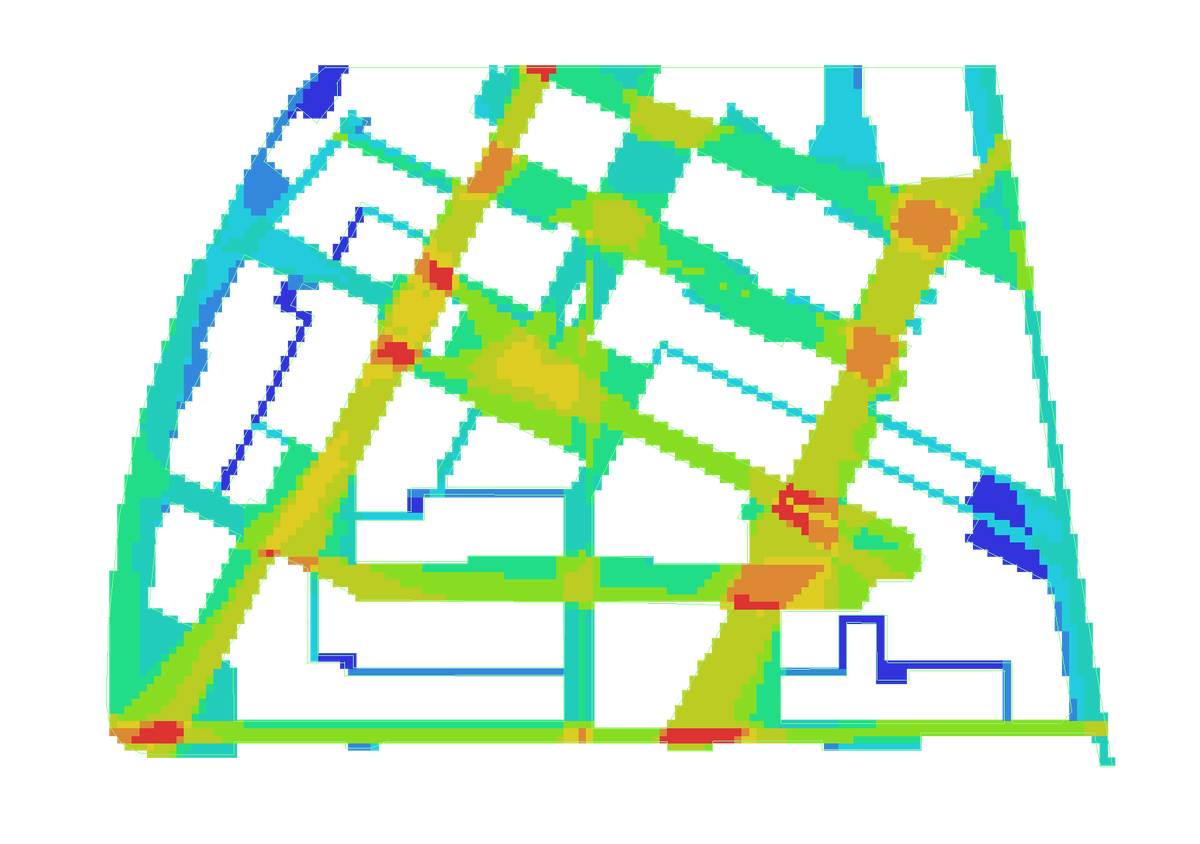
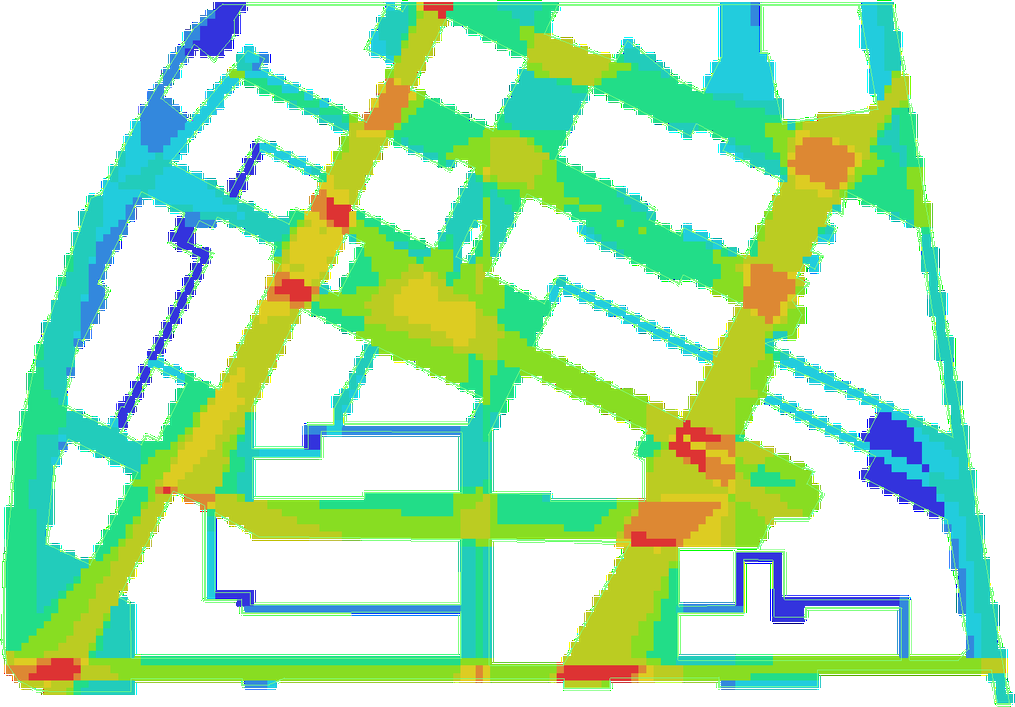
style(phase2): VGA 出图美化（抠黑底 / 裁边 / 暖色深底 / 视域图例）
FIG.13 两张 VGA 原图是纯黑底满幅彩虹，与暖灰站点冲突，兴业那张还大半是空黑。处理：近黑像素抠成透明并裁到内容（前滩 1015×707、兴业 626×946），CSS 统一 4:3、object-fit contain、放到暖色径向深底 panel 上，两张成匹配对照；新增视域渐变图例（受限→开阔）。开放街区铺满整层 vs 封闭中庭收成一条对角廊道的对比因此更清楚。

diff --git a/index.html b/index.html
@@ -227,6 +227,9 @@ table.rank .rk { color: var(--fg-soft); }
 .fig-card .fc-tag { font-family: var(--mono); font-size: .58rem; letter-spacing: .1em; color: var(--fg-soft); }
 .fig-card img { width: 100%; border-radius: 9px; display: block; background: #11100e; }
 .fig-card .fc-cap { font-size: .74rem; color: var(--fg-soft); line-height: 1.5; margin: .5rem .2rem 0; }
+.fig-card.vga img { aspect-ratio: 4 / 3; object-fit: contain; padding: 10px; background: radial-gradient(130% 130% at 50% 30%, #23200f, #121009); box-shadow: var(--inset-sm); }
+.vga-legend { display: flex; align-items: center; gap: .6rem; margin: .85rem .3rem 0; font-size: .7rem; color: var(--fg-soft); font-family: var(--mono); }
+.vga-legend i { height: 7px; width: 200px; border-radius: 4px; background: linear-gradient(to right,#1f3a93,#2f8fd0,#37b56b,#c8d23a,#e88a2a,#d23b2b); box-shadow: var(--inset-sm); }
 .statpair { display: grid; grid-template-columns: 1.25fr 1fr; gap: 1.2rem; align-items: stretch; }
 @media (max-width: 680px) { .statpair { grid-template-columns: 1fr; } }
 .statnote { border-radius: 14px; box-shadow: var(--raise-sm); padding: 1.1rem 1.2rem; display: flex; flex-direction: column; justify-content: center; }
@@ -591,10 +594,11 @@ table.rank .rk { color: var(--fg-soft); }
     <div class="stage">
       <div class="stage__bar"><span class="stage__label">FIG.13 · VGA 视域整合度 · 地面层 L1</span><span class="stage__live">LIVE</span></div>
       <div class="fig-pair">
-        <div class="fig-card"><div class="fc-top"><span class="fc-name qt">前滩太古里 · L1</span><span class="fc-tag">VGA</span></div><img loading="lazy" src="./data/phase2/vga/qt_l1.png" alt="前滩 VGA L1"></div>
-        <div class="fig-card"><div class="fc-top"><span class="fc-name hk">兴业太古汇 · L1</span><span class="fc-tag">VGA</span></div><img loading="lazy" src="./data/phase2/vga/hkri_l1.png" alt="兴业 VGA L1"></div>
+        <div class="fig-card vga"><div class="fc-top"><span class="fc-name qt">前滩太古里 · L1</span><span class="fc-tag">VGA</span></div><img loading="lazy" src="./data/phase2/vga/qt_l1.png" alt="前滩 VGA L1"></div>
+        <div class="fig-card vga"><div class="fc-top"><span class="fc-name hk">兴业太古汇 · L1</span><span class="fc-tag">VGA</span></div><img loading="lazy" src="./data/phase2/vga/hkri_l1.png" alt="兴业 VGA L1"></div>
       </div>
-      <div class="caption"><b>读图</b>：红为视域最开阔、蓝为视域受限。前滩 L1 的视域高值与穿行高值在石区中庭明显重叠，兴业的两套高值则错开。</div>
+      <div class="vga-legend"><span>视域受限</span><i></i><span>视域开阔</span></div>
+      <div class="caption"><b>读图</b>：暖色为视域最开阔、冷色为视域受限。前滩 L1 的视域高值与穿行高值在石区中庭明显重叠，铺满整层的网格说明开放街区到处都「看得通」；兴业则收成一条对角廊道，视域高值与穿行主轴错开。</div>
     </div>
 
     <div class="chapter__body">
